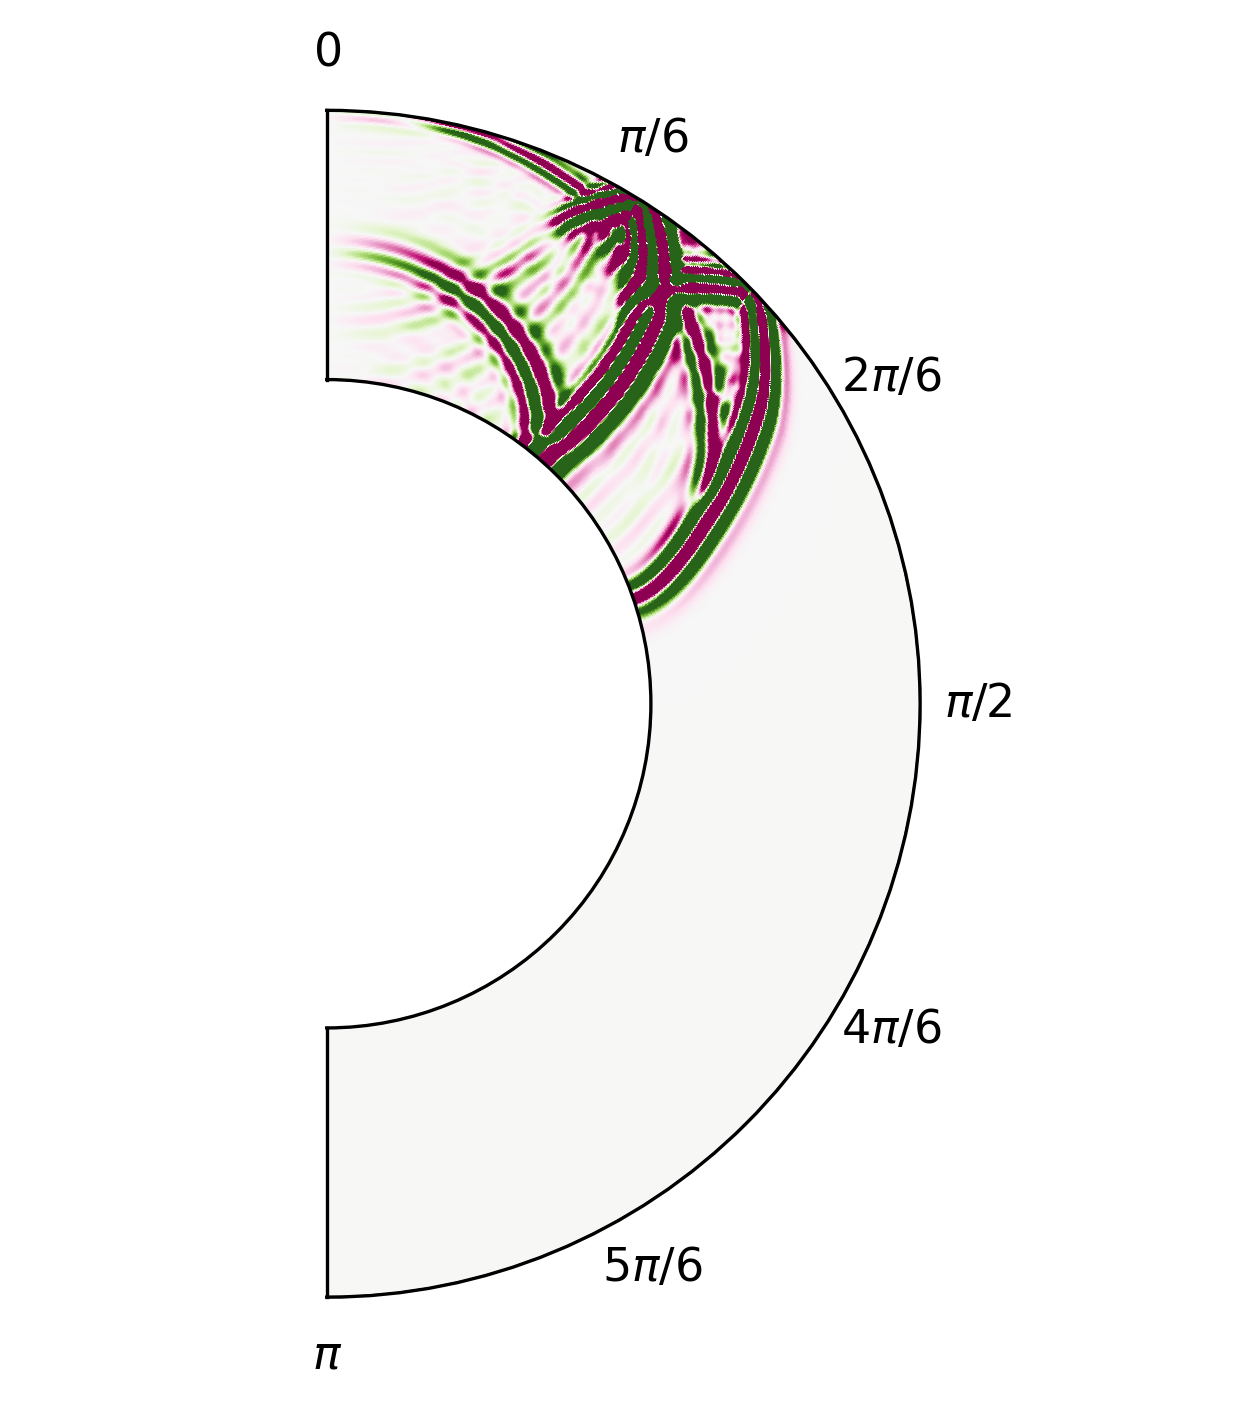
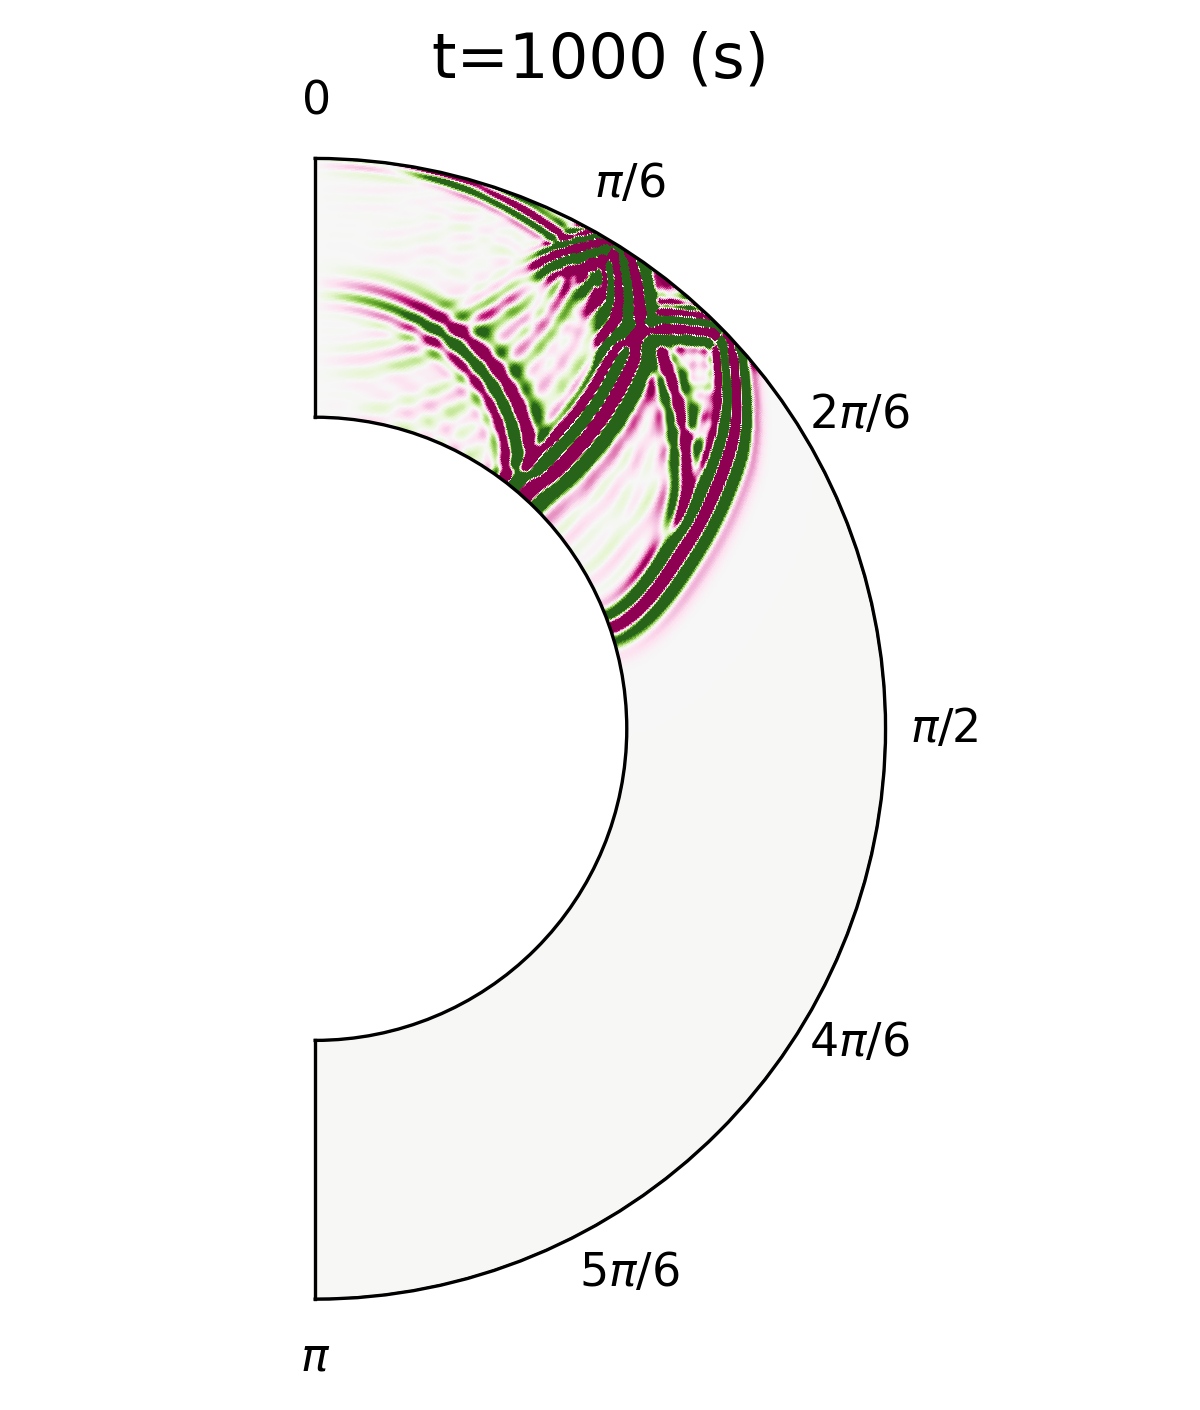
edits and build scripts

diff --git a/tutorialRunFiles/plotWavefield.py b/tutorialRunFiles/plotWavefield.py
@@ -29,7 +29,7 @@ def plotEarthSurf(ax):
   ax.plot(surfTh, surfRa, c='k', linewidth=0.5)
 
 #=========================================
-def doPlot(th, r, z, figID, bd, outName):
+def doPlot(th, r, z, figID, bd, outName, title):
   cm1 = plt.cm.get_cmap('PuOr')
   cm2 = plt.cm.get_cmap('BrBG_r')
   cm3 = plt.cm.get_cmap('PiYG')
@@ -49,6 +49,7 @@ def doPlot(th, r, z, figID, bd, outName):
                        r'$\pi/2$', r'$2\pi/6$', r'$\pi/6$', r'$0$'],
                       fontsize=11)
 
+  ax1.set_title(title, fontsize=15)
   ax1.set_rorigin(-1)
   plotEarthSurf(ax1)
   plotCMB(ax1)
@@ -67,10 +68,10 @@ if __name__== "__main__":
 
   fomFile = './state_timestep_4000_vp'
   fomState = np.loadtxt(fomFile, skiprows=1)
-  doPlot(th, r, fomState.reshape((nr, nth)), 0,[-5e-9, 5e-9], "wavefield_4000.png")
+  doPlot(th, r, fomState.reshape((nr, nth)), 0,[-5e-9, 5e-9], "wavefield_4000.png", title="t=1000 (s)")
   fomFile = './state_timestep_6000_vp'
   fomState = np.loadtxt(fomFile, skiprows=1)
-  doPlot(th, r, fomState.reshape((nr, nth)), 0,[-5e-9, 5e-9], "wavefield_6000.png")
+  doPlot(th, r, fomState.reshape((nr, nth)), 0,[-5e-9, 5e-9], "wavefield_6000.png", title="t=1500 (s)")
   fomFile = './state_timestep_8000_vp'
   fomState = np.loadtxt(fomFile, skiprows=1)
-  doPlot(th, r, fomState.reshape((nr, nth)), 0,[-5e-9, 5e-9], "wavefield_8000.png")
+  doPlot(th, r, fomState.reshape((nr, nth)), 0,[-5e-9, 5e-9], "wavefield_8000.png", title="t=2000 (s)")
